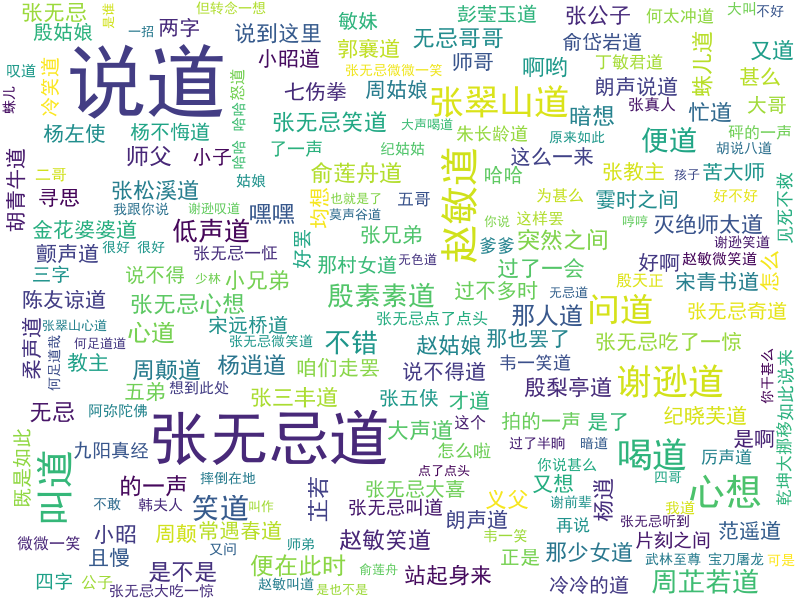
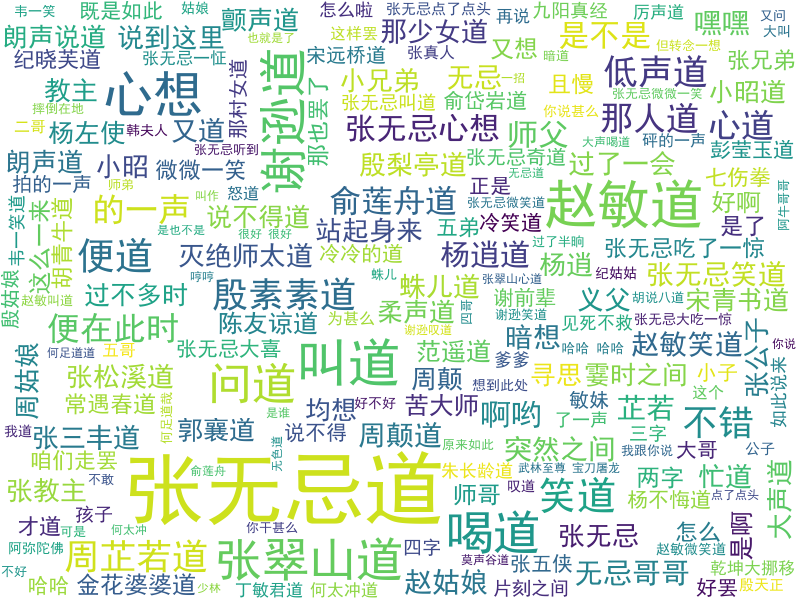
Site updated: 2019-04-22 14:18:28

diff --git a/2019/04/21/python词云/index.html b/2019/04/21/python词云/index.html
@@ -18,9 +18,9 @@
 <meta property="og:locale" content="default">
 <meta property="og:image" content="http://yoursite.com/2019/04/21/python词云/counts.png">
 <meta property="og:image" content="http://yoursite.com/2019/04/21/python词云/ouput.png">
-<meta property="og:image" content="http://yoursite.com/2019/04/21/python词云/tongji.png">
+<meta property="og:image" content="http://yoursite.com/2019/04/21/python词云/ciyun.png">
 <meta property="og:image" content="http://yoursite.com/2019/04/21/python词云/倚天屠龙记基本词云.png">
-<meta property="og:updated_time" content="2019-04-21T09:07:58.386Z">
+<meta property="og:updated_time" content="2019-04-22T06:17:12.663Z">
 <meta name="twitter:card" content="summary">
 <meta name="twitter:title" content="python词云">
 <meta name="twitter:description" content="本文将介绍python中jieba模块的使用，jieba用来对中文句子进行分词，可以用来统计各词语的出现频率和生成词云等。">
@@ -171,16 +171,25 @@
     <div class="article-entry" itemprop="articleBody">
       
         <p>本文将介绍python中jieba模块的使用，jieba用来对中文句子进行分词，可以用来统计各词语的出现频率和生成词云等。<br><a id="more"></a></p>
-<p> 统计各词出现的频率</p>
+<blockquote>
+<p>统计各词出现的频率</p>
+</blockquote>
 <div align="center"><br>  <img src="/2019/04/21/python词云/counts.png"><br></div>
 
-<p> 运行结果：</p>
+<blockquote>
+<p>运行结果：</p>
+</blockquote>
 <div align="center"><br>  <img src="/2019/04/21/python词云/ouput.png"><br></div>
 
-<p> 生成词云</p>
-<div align="center"><br>  <img src="/2019/04/21/python词云/tongji.png"><br></div><br><!-- <div align=center>
-  <img  src="ciyun.gif" >
-</div> --><br><br><br> 生成的词云图片就在存放程序的文件夹内<br><br><div align="center"><br>  <img src="/2019/04/21/python词云/倚天屠龙记基本词云.png"><br></div>
+<blockquote>
+<p>生成词云</p>
+</blockquote>
+<div align="center"><br>  <img src="/2019/04/21/python词云/ciyun.png"><br></div>
+
+<blockquote>
+<p>生成的词云图片就在存放程序的文件夹内</p>
+</blockquote>
+<div align="center"><br>  <img src="/2019/04/21/python词云/倚天屠龙记基本词云.png"><br></div>
 
 <p><a href="https://github.com/zhaozhiyue/wordcloud" target="_blank" rel="noopener">源码及txt文件(点我)</a></p>
 
@@ -422,11 +431,11 @@ return o(i(t),arguments.length<2?void 0:u(arguments[1]))}})},function(t,n,r){var
               </li>
              
               <li class="article-tag-list-item">
-                <a href="javascript:void(0)" class="js-tag color4">古诗文</a>
+                <a href="javascript:void(0)" class="js-tag color2">python</a>
               </li>
              
               <li class="article-tag-list-item">
-                <a href="javascript:void(0)" class="js-tag color2">python</a>
+                <a href="javascript:void(0)" class="js-tag color4">古诗文</a>
               </li>
             
             <div class="clearfix"></div>

diff --git a/2019/04/13/jinlei/index.html b/2019/04/13/jinlei/index.html
@@ -429,11 +429,11 @@ return o(i(t),arguments.length<2?void 0:u(arguments[1]))}})},function(t,n,r){var
               </li>
              
               <li class="article-tag-list-item">
-                <a href="javascript:void(0)" class="js-tag color4">古诗文</a>
+                <a href="javascript:void(0)" class="js-tag color2">python</a>
               </li>
              
               <li class="article-tag-list-item">
-                <a href="javascript:void(0)" class="js-tag color2">python</a>
+                <a href="javascript:void(0)" class="js-tag color4">古诗文</a>
               </li>
             
             <div class="clearfix"></div>

diff --git a/2019/04/13/tengwanggexu/index.html b/2019/04/13/tengwanggexu/index.html
@@ -418,11 +418,11 @@ return o(i(t),arguments.length<2?void 0:u(arguments[1]))}})},function(t,n,r){var
               </li>
              
               <li class="article-tag-list-item">
-                <a href="javascript:void(0)" class="js-tag color4">古诗文</a>
+                <a href="javascript:void(0)" class="js-tag color2">python</a>
               </li>
              
               <li class="article-tag-list-item">
-                <a href="javascript:void(0)" class="js-tag color2">python</a>
+                <a href="javascript:void(0)" class="js-tag color4">古诗文</a>
               </li>
             
             <div class="clearfix"></div>

diff --git a/archives/2019/04/index.html b/archives/2019/04/index.html
@@ -367,11 +367,11 @@ return o(i(t),arguments.length<2?void 0:u(arguments[1]))}})},function(t,n,r){var
               </li>
              
               <li class="article-tag-list-item">
-                <a href="javascript:void(0)" class="js-tag color4">古诗文</a>
+                <a href="javascript:void(0)" class="js-tag color2">python</a>
               </li>
              
               <li class="article-tag-list-item">
-                <a href="javascript:void(0)" class="js-tag color2">python</a>
+                <a href="javascript:void(0)" class="js-tag color4">古诗文</a>
               </li>
             
             <div class="clearfix"></div>

diff --git a/archives/2019/index.html b/archives/2019/index.html
@@ -367,11 +367,11 @@ return o(i(t),arguments.length<2?void 0:u(arguments[1]))}})},function(t,n,r){var
               </li>
              
               <li class="article-tag-list-item">
-                <a href="javascript:void(0)" class="js-tag color4">古诗文</a>
+                <a href="javascript:void(0)" class="js-tag color2">python</a>
               </li>
              
               <li class="article-tag-list-item">
-                <a href="javascript:void(0)" class="js-tag color2">python</a>
+                <a href="javascript:void(0)" class="js-tag color4">古诗文</a>
               </li>
             
             <div class="clearfix"></div>

diff --git a/archives/index.html b/archives/index.html
@@ -367,11 +367,11 @@ return o(i(t),arguments.length<2?void 0:u(arguments[1]))}})},function(t,n,r){var
               </li>
              
               <li class="article-tag-list-item">
-                <a href="javascript:void(0)" class="js-tag color4">古诗文</a>
+                <a href="javascript:void(0)" class="js-tag color2">python</a>
               </li>
              
               <li class="article-tag-list-item">
-                <a href="javascript:void(0)" class="js-tag color2">python</a>
+                <a href="javascript:void(0)" class="js-tag color4">古诗文</a>
               </li>
             
             <div class="clearfix"></div>

diff --git a/index.html b/index.html
@@ -469,11 +469,11 @@ return o(i(t),arguments.length<2?void 0:u(arguments[1]))}})},function(t,n,r){var
               </li>
              
               <li class="article-tag-list-item">
-                <a href="javascript:void(0)" class="js-tag color4">古诗文</a>
+                <a href="javascript:void(0)" class="js-tag color2">python</a>
               </li>
              
               <li class="article-tag-list-item">
-                <a href="javascript:void(0)" class="js-tag color2">python</a>
+                <a href="javascript:void(0)" class="js-tag color4">古诗文</a>
               </li>
             
             <div class="clearfix"></div>

diff --git a/jianli/index.html b/jianli/index.html
@@ -437,11 +437,11 @@ return o(i(t),arguments.length<2?void 0:u(arguments[1]))}})},function(t,n,r){var
               </li>
              
               <li class="article-tag-list-item">
-                <a href="javascript:void(0)" class="js-tag color4">古诗文</a>
+                <a href="javascript:void(0)" class="js-tag color2">python</a>
               </li>
              
               <li class="article-tag-list-item">
-                <a href="javascript:void(0)" class="js-tag color2">python</a>
+                <a href="javascript:void(0)" class="js-tag color4">古诗文</a>
               </li>
             
             <div class="clearfix"></div>

diff --git a/tags/python/index.html b/tags/python/index.html
@@ -291,11 +291,11 @@ return o(i(t),arguments.length<2?void 0:u(arguments[1]))}})},function(t,n,r){var
               </li>
              
               <li class="article-tag-list-item">
-                <a href="javascript:void(0)" class="js-tag color4">古诗文</a>
+                <a href="javascript:void(0)" class="js-tag color2">python</a>
               </li>
              
               <li class="article-tag-list-item">
-                <a href="javascript:void(0)" class="js-tag color2">python</a>
+                <a href="javascript:void(0)" class="js-tag color4">古诗文</a>
               </li>
             
             <div class="clearfix"></div>

diff --git a/tags/古诗文/index.html b/tags/古诗文/index.html
@@ -291,11 +291,11 @@ return o(i(t),arguments.length<2?void 0:u(arguments[1]))}})},function(t,n,r){var
               </li>
              
               <li class="article-tag-list-item">
-                <a href="javascript:void(0)" class="js-tag color4">古诗文</a>
+                <a href="javascript:void(0)" class="js-tag color2">python</a>
               </li>
              
               <li class="article-tag-list-item">
-                <a href="javascript:void(0)" class="js-tag color2">python</a>
+                <a href="javascript:void(0)" class="js-tag color4">古诗文</a>
               </li>
             
             <div class="clearfix"></div>

diff --git a/tags/项目/index.html b/tags/项目/index.html
@@ -291,11 +291,11 @@ return o(i(t),arguments.length<2?void 0:u(arguments[1]))}})},function(t,n,r){var
               </li>
              
               <li class="article-tag-list-item">
-                <a href="javascript:void(0)" class="js-tag color4">古诗文</a>
+                <a href="javascript:void(0)" class="js-tag color2">python</a>
               </li>
              
               <li class="article-tag-list-item">
-                <a href="javascript:void(0)" class="js-tag color2">python</a>
+                <a href="javascript:void(0)" class="js-tag color4">古诗文</a>
               </li>
             
             <div class="clearfix"></div>

diff --git a/备份/fisrtblog.html b/备份/fisrtblog.html
@@ -403,11 +403,11 @@ return o(i(t),arguments.length<2?void 0:u(arguments[1]))}})},function(t,n,r){var
               </li>
              
               <li class="article-tag-list-item">
-                <a href="javascript:void(0)" class="js-tag color4">古诗文</a>
+                <a href="javascript:void(0)" class="js-tag color2">python</a>
               </li>
              
               <li class="article-tag-list-item">
-                <a href="javascript:void(0)" class="js-tag color2">python</a>
+                <a href="javascript:void(0)" class="js-tag color4">古诗文</a>
               </li>
             
             <div class="clearfix"></div>
